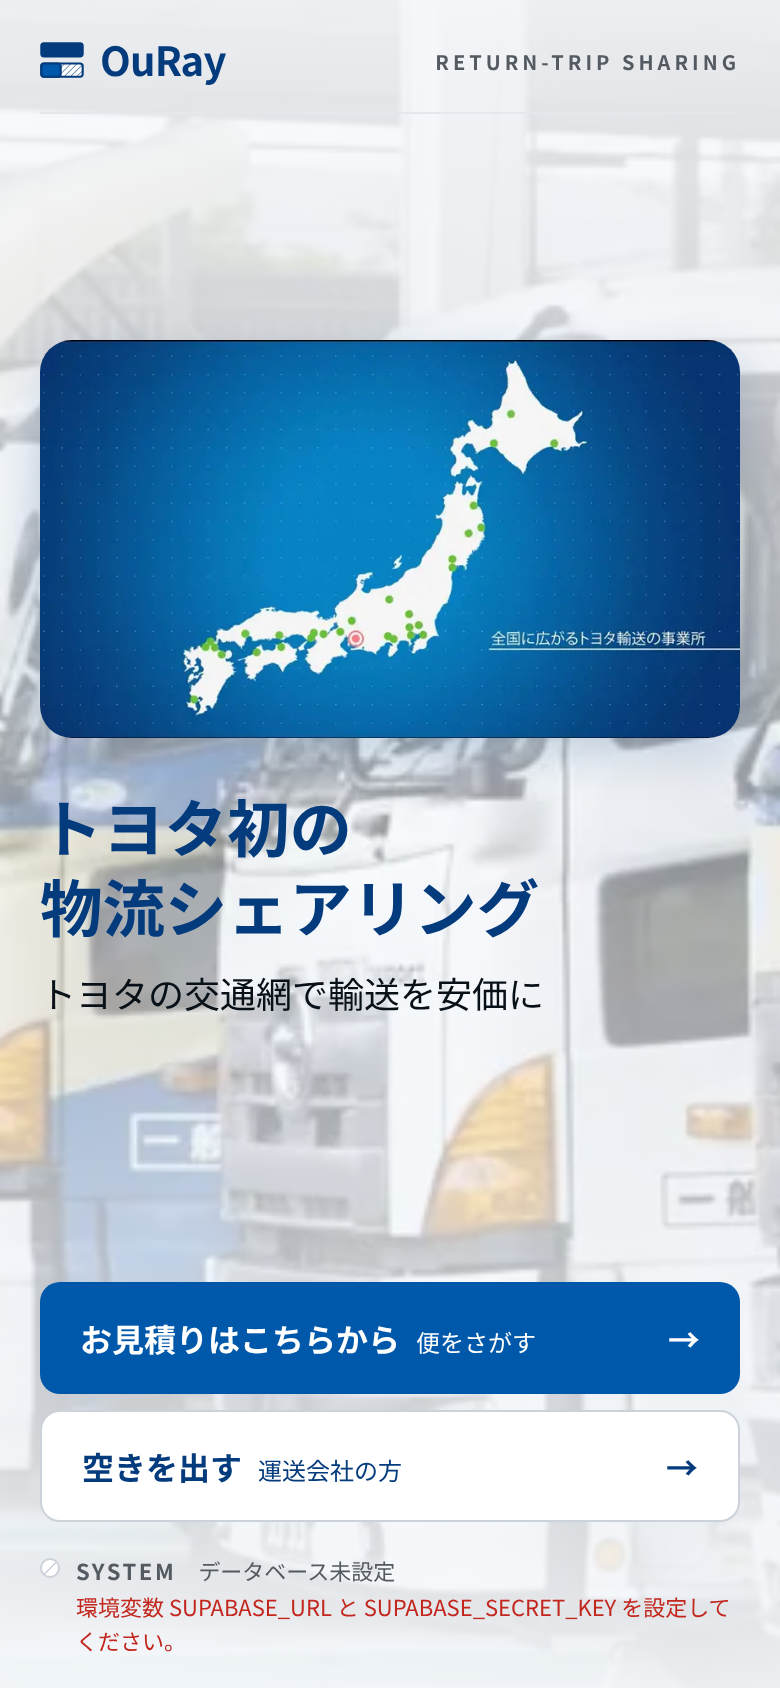
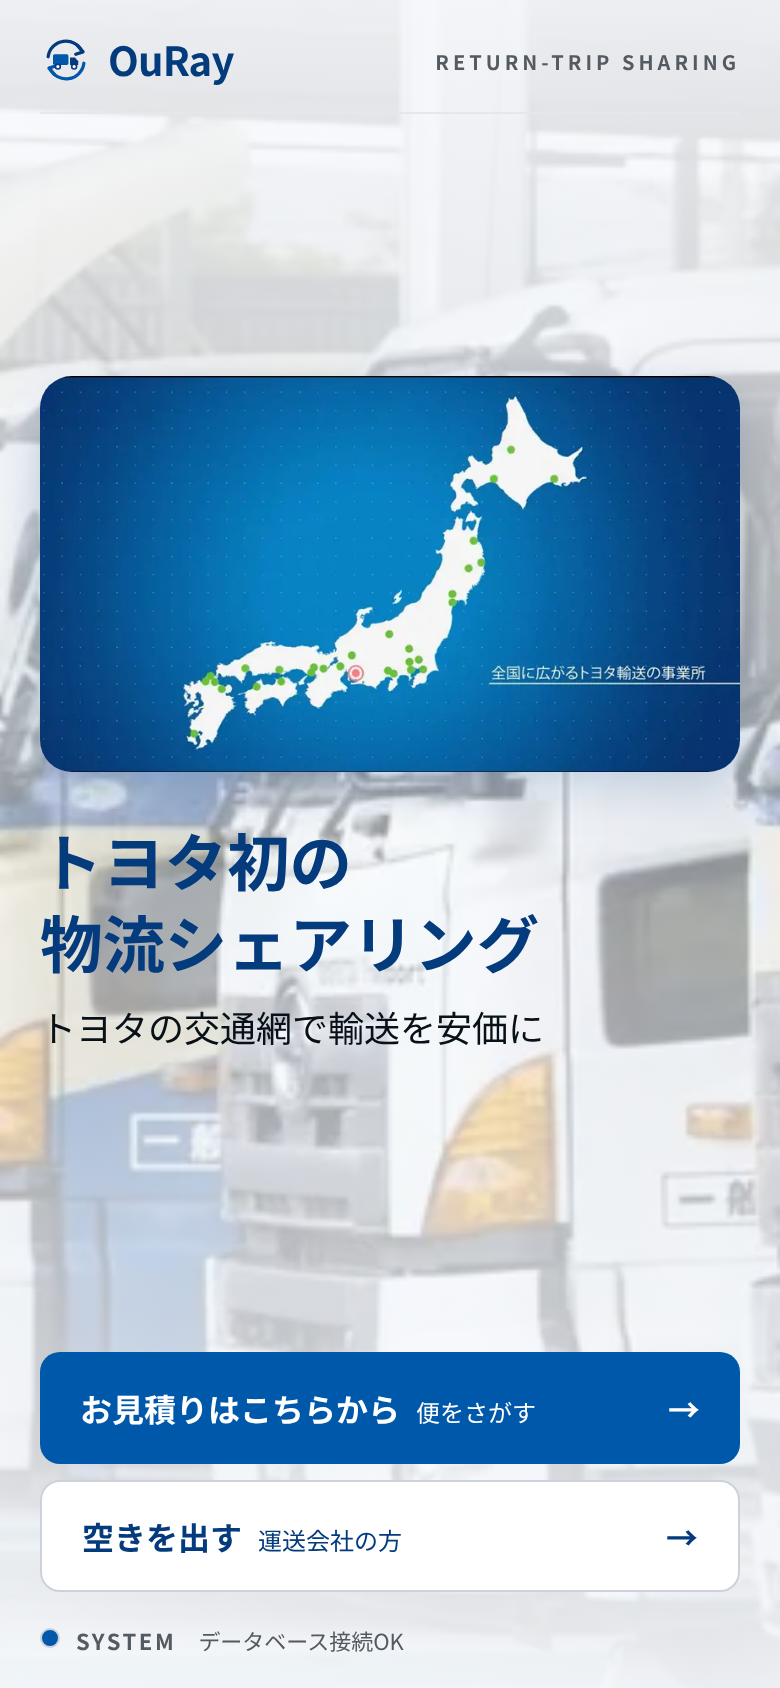
ロゴをB案「往来の輪」に変更（画面の上・タブのアイコン）、読み込み中は輪が回る表示に
Claude-Session: https://claude.ai/code/session_01Vw4yd5tJWYJSwxhi1seWuh

Changed region(s): [[0.0308, 0.1848, 0.9538, 0.6161], [0.0308, 0.7393, 0.9538, 0.9858], [0.0308, 0.0, 0.3077, 0.0616]]

diff --git a/src/components/logo.tsx b/src/components/logo.tsx
@@ -1,22 +1,27 @@
 /**
- * OuRay のマーク：上の帯は行き便（荷物で満載＝黒）、下の帯は帰り便。
- * 帰り便の空き（斜線）に、予約された荷物（差し色）が入っていく。
+ * OuRay のマーク（B案「往来の輪」）：行きと帰りの矢印がひとつの輪になり、その中をトラックが走る。
+ * spinning のときは輪だけが回る（読み込み中の表示）。トラックは向きを保つ。
+ * 動きを減らす設定の端末では回さない（motion-safe）。
  */
-export function LogoMark({ size = 24 }: { size?: number }) {
+export function LogoMark({ size = 24, spinning = false }: { size?: number; spinning?: boolean }) {
   return (
-    <svg width={size} height={size} viewBox="0 0 50 50" aria-hidden>
-      <defs>
-        <pattern id="ouray-stripe" width="5" height="5" patternUnits="userSpaceOnUse" patternTransform="rotate(45)">
-          <line x1="0" y1="0" x2="0" y2="5" stroke="#033b7d" strokeWidth="1.2" />
-        </pattern>
-      </defs>
-      {/* 行き：満載 */}
-      <rect x="1.5" y="6" width="47" height="15" rx="3" fill="#033b7d" stroke="#033b7d" strokeWidth="2.4" />
-      {/* 帰り：空き */}
-      <rect x="1.5" y="29" width="47" height="15" rx="3" fill="#fff" stroke="#033b7d" strokeWidth="2.4" />
-      <rect x="1.5" y="29" width="47" height="15" rx="3" fill="url(#ouray-stripe)" />
-      {/* 帰り：予約で埋まった分 */}
-      <rect x="1.5" y="29" width="22" height="15" rx="3" fill="#0058aa" stroke="#033b7d" strokeWidth="2.4" />
+    <svg width={size} height={size} viewBox="0 0 64 64" aria-hidden className="shrink-0">
+      <g
+        className={spinning ? "motion-safe:animate-[spin_1.2s_linear_infinite]" : undefined}
+        style={{ transformOrigin: "32px 32px", transformBox: "view-box" }}
+      >
+        {/* 行き（上の弧） */}
+        <path d="M10 28 A22 22 0 0 1 52 22" fill="none" stroke="#033b7d" strokeWidth="4" strokeLinecap="round" />
+        <path d="M46 14 L53 22 L44 25" fill="none" stroke="#033b7d" strokeWidth="4" strokeLinecap="round" strokeLinejoin="round" />
+        {/* 帰り（下の弧） */}
+        <path d="M54 36 A22 22 0 0 1 12 42" fill="none" stroke="#0058aa" strokeWidth="4" strokeLinecap="round" />
+        <path d="M18 50 L11 42 L20 39" fill="none" stroke="#0058aa" strokeWidth="4" strokeLinecap="round" strokeLinejoin="round" />
+      </g>
+      {/* 真ん中のトラック */}
+      <rect x="16" y="25" width="19" height="13" rx="2" fill="#0058aa" />
+      <path d="M37 29h6l4 4.5V38H37z" fill="#033b7d" />
+      <circle cx="22" cy="40" r="3" fill="#fff" stroke="#033b7d" strokeWidth="2" />
+      <circle cx="42" cy="40" r="3" fill="#fff" stroke="#033b7d" strokeWidth="2" />
     </svg>
   );
 }
@@ -24,8 +29,18 @@ export function LogoMark({ size = 24 }: { size?: number }) {
 export function Logo({ size = 24 }: { size?: number }) {
   return (
     <span className="inline-flex items-center gap-2">
-      <LogoMark size={size} />
+      <LogoMark size={size + 4} />
       <span className="num text-xl font-bold tracking-[-0.02em] text-navy">OuRay</span>
     </span>
+  );
+}
+
+/** 読み込み中の表示：マークの輪が回る */
+export function LoadingLogo({ label = "読み込み中…" }: { label?: string }) {
+  return (
+    <div role="status" aria-live="polite" className="flex min-h-[50svh] flex-col items-center justify-center gap-3">
+      <LogoMark size={64} spinning />
+      <p className="text-sm text-gray">{label}</p>
+    </div>
   );
 }

diff --git a/src/app/trips/loading.tsx b/src/app/trips/loading.tsx
@@ -1,22 +1,6 @@
-/**
- * 便の一覧・詳細・申込の読み込み中の表示。
- * 押した瞬間にこの骨組みを出し、データが届いたら中身に置き換わる（体感の待ち時間を減らす）。
- */
+import { LoadingLogo } from "@/components/logo";
+
+/** 読み込み中の表示：押した瞬間に OuRay のマーク（輪が回る）を出し、データが届いたら中身に置き換わる */
 export default function Loading() {
-  return (
-    <div aria-busy="true" aria-label="読み込み中" className="animate-pulse">
-      <div className="h-3 w-24 rounded bg-line" />
-      <div className="mt-2 h-9 w-48 rounded bg-line" />
-      <div className="mt-3 h-4 w-full max-w-md rounded bg-line" />
-      <div className="mt-5 h-14 w-full rounded-[10px] bg-white" />
-      <div className="-mx-4 mt-6 rounded-t-2xl bg-white px-4 pt-6 pb-6 md:mx-0 md:rounded-2xl md:p-12">
-        <div className="h-12 w-full rounded-[10px] bg-paper" />
-        <div className="mt-4 grid gap-2">
-          {[0, 1, 2].map((i) => (
-            <div key={i} className="h-28 rounded-[5px] bg-paper" />
-          ))}
-        </div>
-      </div>
-    </div>
-  );
+  return <LoadingLogo />;
 }

diff --git a/src/app/carrier/loading.tsx b/src/app/carrier/loading.tsx
@@ -1,22 +1,6 @@
-/**
- * 管理画面の読み込み中の表示。
- * タブを押した瞬間にこの骨組みを出し、データが届いたら中身に置き換わる（体感の待ち時間を減らす）。
- */
+import { LoadingLogo } from "@/components/logo";
+
+/** 読み込み中の表示：押した瞬間に OuRay のマーク（輪が回る）を出し、データが届いたら中身に置き換わる */
 export default function Loading() {
-  return (
-    <div aria-busy="true" aria-label="読み込み中" className="animate-pulse">
-      <div className="h-3 w-16 bg-line" />
-      <div className="mt-2 h-7 w-48 bg-line" />
-      <div className="mt-3 h-4 w-64 bg-line" />
-      <div className="mt-6 space-y-4">
-        {[0, 1, 2].map((i) => (
-          <div key={i} className="border border-line bg-white p-4">
-            <div className="h-4 w-28 bg-line" />
-            <div className="mt-3 h-10 w-full bg-paper" />
-            <div className="mt-2 h-10 w-full bg-paper" />
-          </div>
-        ))}
-      </div>
-    </div>
-  );
+  return <LoadingLogo />;
 }

diff --git a/src/app/b/loading.tsx b/src/app/b/loading.tsx
@@ -1,15 +1,6 @@
-/** 予約確認ページの読み込み中の表示 */
+import { LoadingLogo } from "@/components/logo";
+
+/** 読み込み中の表示：押した瞬間に OuRay のマーク（輪が回る）を出し、データが届いたら中身に置き換わる */
 export default function Loading() {
-  return (
-    <div aria-busy="true" aria-label="読み込み中" className="animate-pulse">
-      <div className="h-3 w-24 rounded bg-line" />
-      <div className="mt-2 h-9 w-40 rounded bg-line" />
-      <div className="mt-5 h-36 rounded-2xl bg-white" />
-      <div className="mt-4 h-44 rounded-2xl bg-white" />
-      <div className="mt-4 grid gap-4 md:grid-cols-2">
-        <div className="h-40 rounded-2xl bg-white" />
-        <div className="h-40 rounded-2xl bg-white" />
-      </div>
-    </div>
-  );
+  return <LoadingLogo />;
 }

diff --git a/src/app/carrier/layout.tsx b/src/app/carrier/layout.tsx
@@ -1,6 +1,6 @@
 import Link from "next/link";
 import { Suspense } from "react";
-import { Logo } from "@/components/logo";
+import { LoadingLogo, Logo } from "@/components/logo";
 import { CarrierNav } from "./carrier-nav";
 
 export default function CarrierLayout({ children }: LayoutProps<"/carrier">) {
@@ -15,7 +15,7 @@ export default function CarrierLayout({ children }: LayoutProps<"/carrier">) {
         </div>
       </header>
       <main className="mx-auto w-full max-w-md flex-1 px-4 pt-5 pb-28 print:max-w-none print:p-0">
-        <Suspense fallback={<p className="text-sm text-gray">読み込み中…</p>}>{children}</Suspense>
+        <Suspense fallback={<LoadingLogo />}>{children}</Suspense>
       </main>
       <Suspense>
         <CarrierNav />

diff --git a/src/app/trips/layout.tsx b/src/app/trips/layout.tsx
@@ -1,6 +1,6 @@
 import Link from "next/link";
 import { Suspense } from "react";
-import { Logo } from "@/components/logo";
+import { LoadingLogo, Logo } from "@/components/logo";
 
 /** 荷主向けの公開ページ（便をさがす） */
 export default function TripsLayout({ children }: LayoutProps<"/trips">) {
@@ -15,7 +15,7 @@ export default function TripsLayout({ children }: LayoutProps<"/trips">) {
         </div>
       </header>
       <main className="mx-auto w-full max-w-3xl flex-1 px-4 pt-5 pb-12">
-        <Suspense fallback={<p className="text-sm text-gray">読み込み中…</p>}>{children}</Suspense>
+        <Suspense fallback={<LoadingLogo />}>{children}</Suspense>
       </main>
     </div>
   );

diff --git a/src/app/b/layout.tsx b/src/app/b/layout.tsx
@@ -1,6 +1,6 @@
 import Link from "next/link";
 import { Suspense } from "react";
-import { Logo } from "@/components/logo";
+import { LoadingLogo, Logo } from "@/components/logo";
 
 /** 荷主の予約確認ページ */
 export default function BookingLayout({ children }: LayoutProps<"/b">) {
@@ -15,7 +15,7 @@ export default function BookingLayout({ children }: LayoutProps<"/b">) {
         </div>
       </header>
       <main className="mx-auto w-full max-w-3xl flex-1 px-4 pt-5 pb-12">
-        <Suspense fallback={<p className="text-sm text-gray">読み込み中…</p>}>{children}</Suspense>
+        <Suspense fallback={<LoadingLogo />}>{children}</Suspense>
       </main>
     </div>
   );

diff --git a/README.md b/README.md
@@ -199,6 +199,7 @@ npm test                     # 金額の計算のテスト
 - 入力欄・切り替えは細いグレーの線（#CBD2D9）と角丸 10px
 - 状況の札は白地に色の線（受付中＝紺、残りわずか＝オレンジ、運休＝赤、受付終了＝グレー）
 - 文字は Noto Sans JP。見出しは大きく、太さは標準
+- ロゴは B案「往来の輪」（`src/components/logo.tsx`、タブのアイコンは `src/app/icon.svg`）。読み込み中は輪が回る（動きを減らす設定の端末では回さない）。ほかの案は `design/logo-options/`
 
 ## 便をさがす（荷主向けの公開ページ）
 
